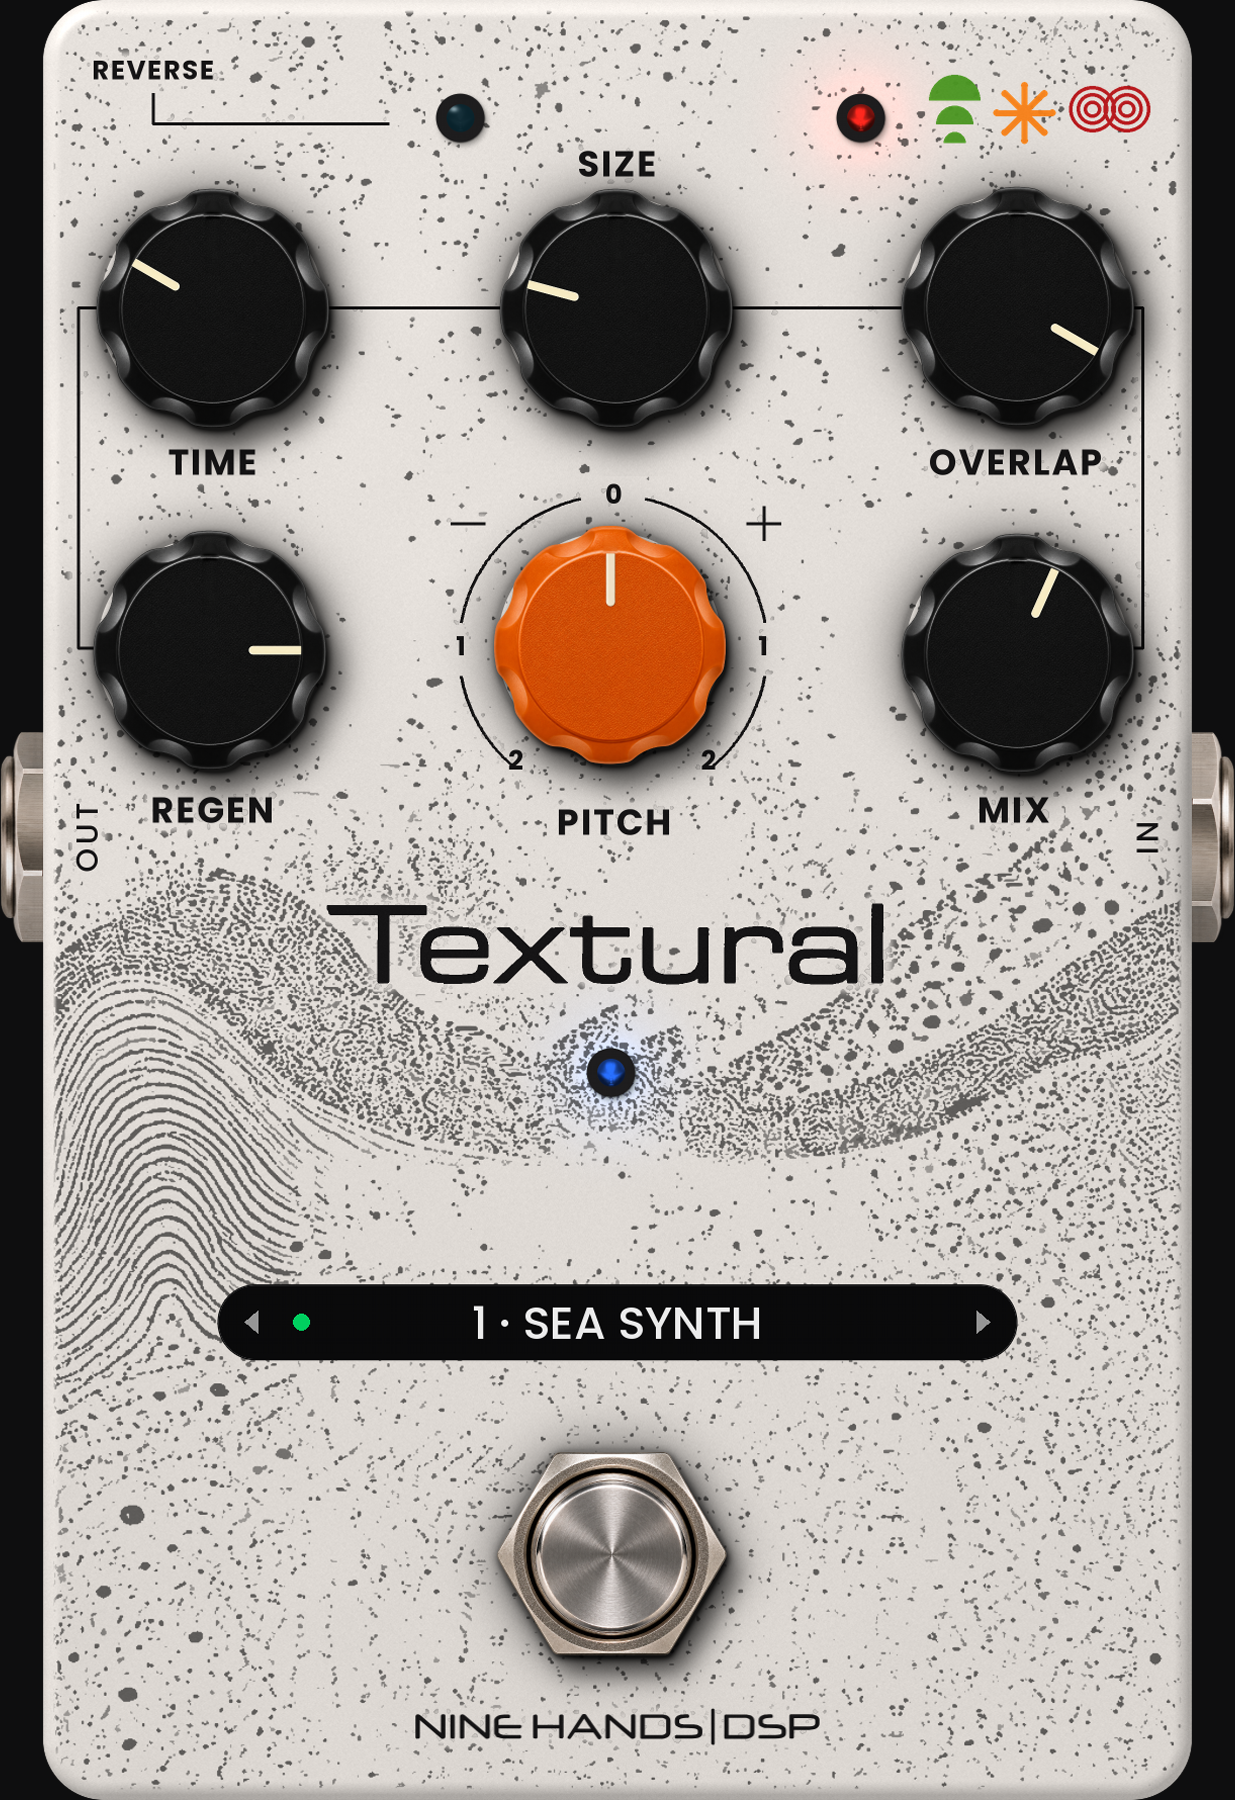
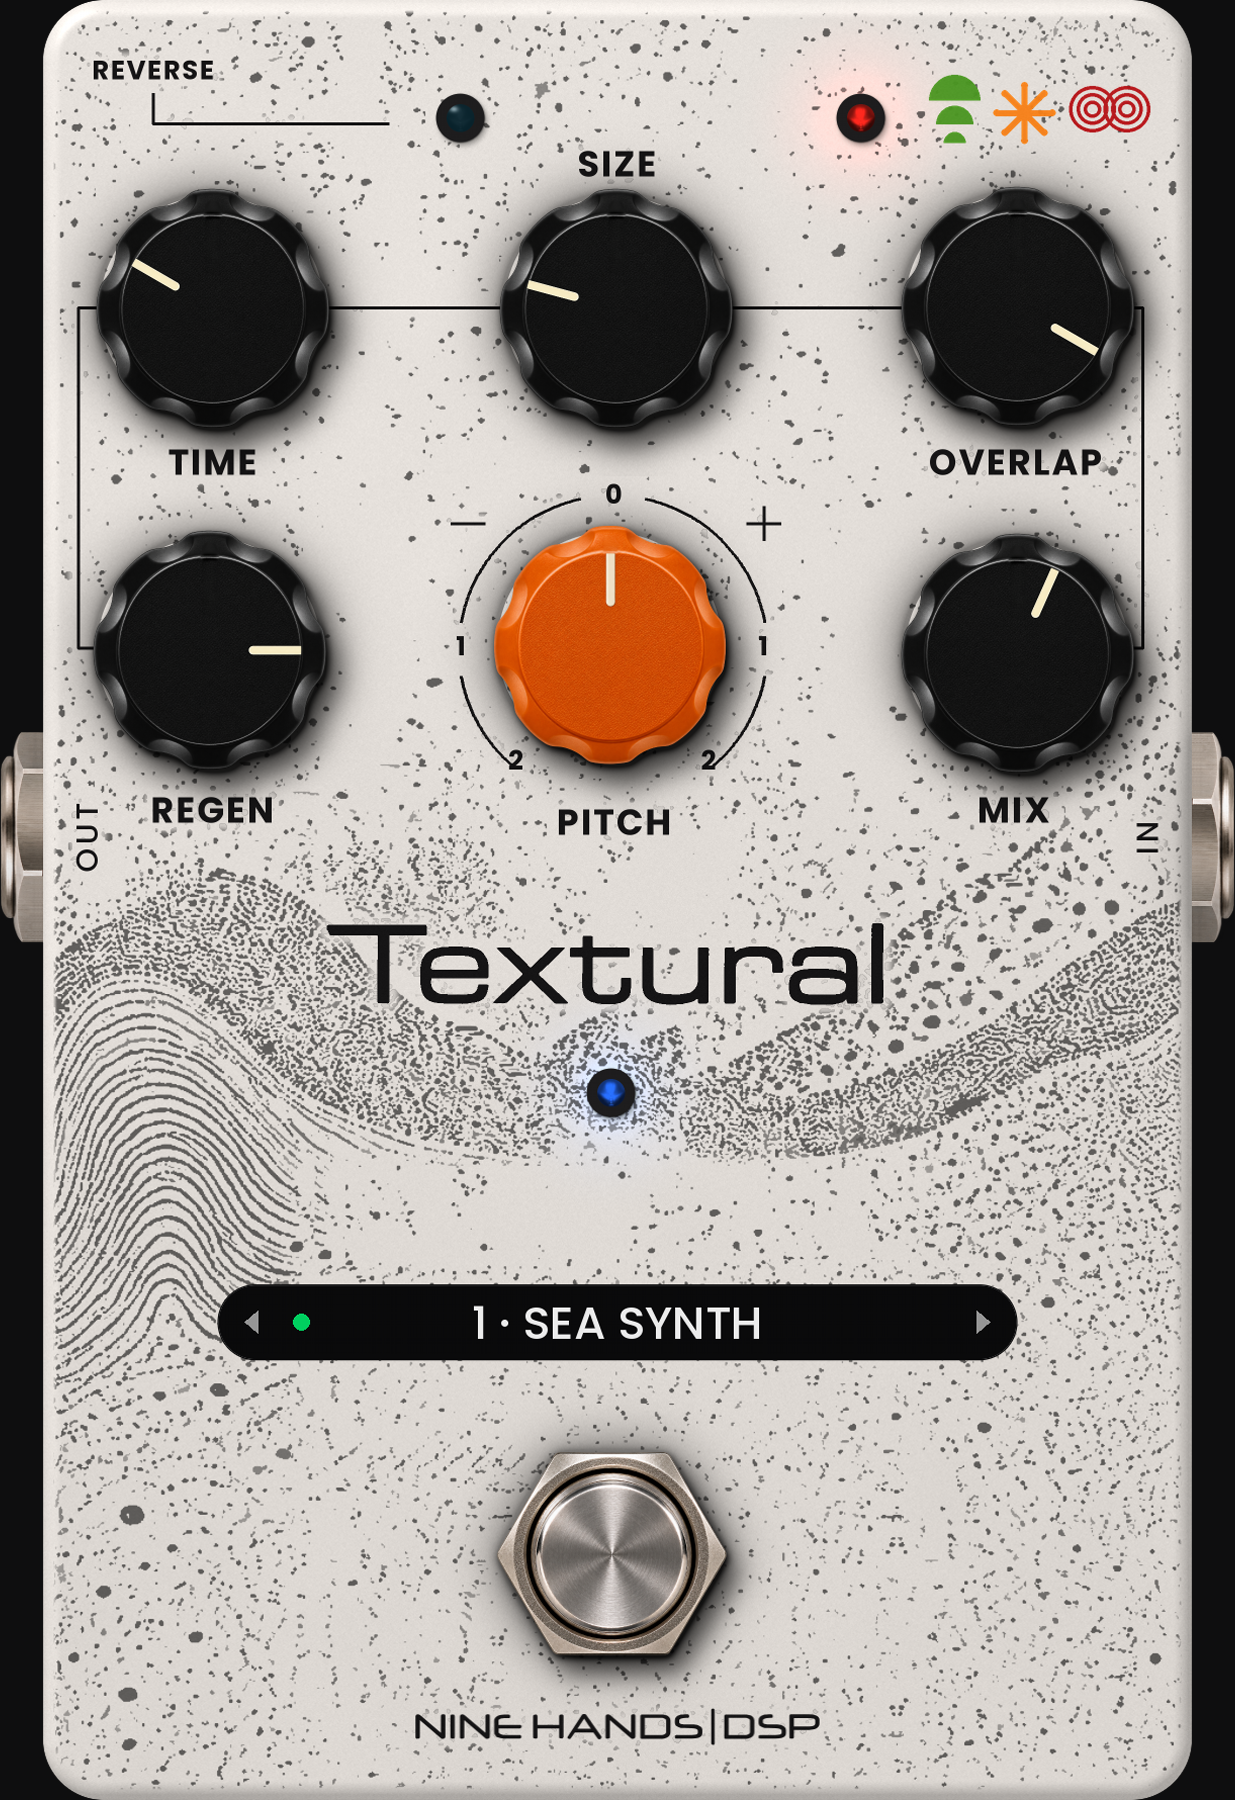
Apercu v2 : titre et LED encore -20 px
Claude-Session: https://claude.ai/code/session_01DVineguNdVkvZ7sjaqqiCM

Changed region(s): [[0.2462, 0.4978, 0.7385, 0.6222]]

diff --git a/tools/make_art.py b/tools/make_art.py
@@ -126,7 +126,7 @@ REV_LED = D(460.2, 69.0)
 MODE_LED = D(684.0, 69.0)
 STATUS_LED = D(544.7, 583.7)
 LAB_DY = 15.0 * PH / OUT_H                          # noms sous les potards descendus de 15 px (image 1800 px)
-TL_DY = 20.0 * PH / OUT_H                           # titre Textural et LED d'etat descendus de 20 px
+TL_DY = 40.0 * PH / OUT_H                           # titre Textural et LED d etat descendus de 2 x 20 px
 STATUS_LED0 = STATUS_LED
 STATUS_LED = (STATUS_LED[0], STATUS_LED[1] + TL_DY)
 FS = D(544.7, 895.3)
